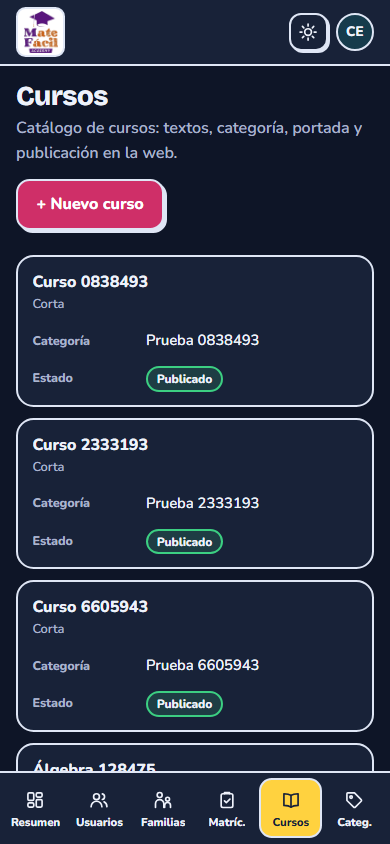
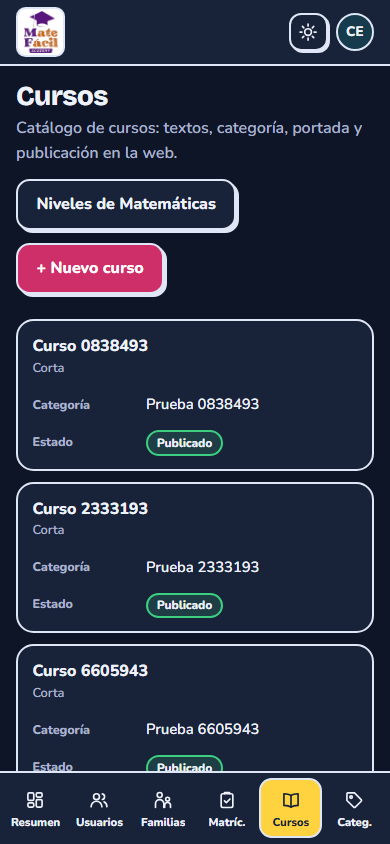
feat: pantalla de niveles de Matemáticas en el panel (SCRUM-39)
- /admin/cursos/niveles muestra los 8 niveles por etapa con su curso y
  sus sesiones, y crea los que faltan con un botón (se puede repetir).
- Enlace desde Cursos; responsive y modo oscuro.
- Modo mock con la misma regla; pruebas e2e en mock y contra la API real.
- Docs de pruebas actualizados con capturas y resultados.

diff --git a/src/app/(admin)/admin/cursos/niveles/page.tsx b/src/app/(admin)/admin/cursos/niveles/page.tsx
@@ -1,0 +1,78 @@
+import type { Metadata } from 'next';
+import Link from 'next/link';
+import { Suspense } from 'react';
+import { PageHeader, PageSkeleton } from '@/components/ui/primitives';
+import { provisionMathLevelsAction } from '@/features/admin/actions';
+import { ActionForm, SubmitButton } from '@/features/admin/components/action-form';
+import styles from '@/features/admin/components/admin.module.css';
+import { cn } from '@/lib/cn';
+import { requireSession } from '@/server/auth/dal';
+import { services } from '@/services';
+import type { MathLevel } from '@/types/admin';
+
+export const metadata: Metadata = { title: 'Niveles de Matemáticas' };
+
+// Niveles de Matemáticas (SCRUM-39): cuatro por etapa, cada uno es un curso con sus 14 sesiones.
+export default function MathLevelsPage() {
+  return (
+    <div className="page">
+      <Link className="link" href="/admin/cursos">← Cursos</Link>
+      <PageHeader
+        title="Niveles de Matemáticas"
+        description="Prebásico, Básico, Intermedio y Avanzado para primaria y secundaria. Cada nivel es un curso con sus 14 sesiones."
+      />
+      <Suspense fallback={<PageSkeleton />}>
+        <Levels />
+      </Suspense>
+    </div>
+  );
+}
+
+async function Levels() {
+  const ctx = await requireSession('admin');
+  const levels = await services.admin.listMathLevels(ctx);
+  const missing = levels.filter((level) => !level.courseId).length;
+
+  return (
+    <>
+      {missing > 0 && (
+        <section className="card section">
+          <p>
+            Faltan <b>{missing} de 8</b> niveles. Se crean como cursos en borrador, cada uno con 14 sesiones en borrador para que el
+            equipo académico cargue el contenido. Los niveles que ya existen no se tocan.
+          </p>
+          <ActionForm action={provisionMathLevelsAction}>
+            <SubmitButton className="btn--primary" pendingLabel="Creando…">Crear los niveles que faltan</SubmitButton>
+          </ActionForm>
+        </section>
+      )}
+      {(['primary', 'secondary'] as const).map((stage) => (
+        <section key={stage} className="section" aria-labelledby={`etapa-${stage}`}>
+          <h2 id={`etapa-${stage}`}>{stage === 'primary' ? 'Primaria' : 'Secundaria'}</h2>
+          <ul className={styles.levels} role="list">
+            {levels.filter((level) => level.stage === stage).map((level) => <LevelCard key={level.level} level={level} />)}
+          </ul>
+        </section>
+      ))}
+    </>
+  );
+}
+
+function LevelCard({ level }: { level: MathLevel }) {
+  if (!level.courseId) {
+    return (
+      <li className={cn(styles.level, styles.levelMissing)}>
+        <h3>{level.levelLabel}</h3>
+        <span>Sin crear · clases de {level.sessionMinutes} min</span>
+      </li>
+    );
+  }
+  return (
+    <li className={styles.level}>
+      <h3><Link href={`/admin/cursos/${level.courseId}`}>{level.levelLabel}</Link></h3>
+      <span className={styles.sub}>{level.courseTitle}</span>
+      <span>{level.lessons} sesiones · {level.publishedLessons} publicadas</span>
+      <span className={styles.sub}>Clases de {level.sessionMinutes} min · {level.coursePublished ? 'curso publicado' : 'curso en borrador'}</span>
+    </li>
+  );
+}

diff --git a/src/services/mock/admin.ts b/src/services/mock/admin.ts
@@ -15,6 +15,7 @@ import type {
   EnrollmentStatus,
   Instructor,
   IssuedCredentials,
+  MathLevel,
   OfferingSeats,
   SaveOfferingInput,
   SessionAttendance,
@@ -255,6 +256,29 @@ function sessionAttendance(sessionId: string): SessionAttendance | null {
     sessionId, offeringId: offering.id, courseTitle: course?.title ?? '', offeringName: offering.name,
     startsAt: session.startsAt, endsAt: session.endsAt, opensAt, canMark: Date.now() >= Date.parse(opensAt), students,
   };
+}
+
+// Niveles de Matemáticas (SCRUM-39): nivel → curso. Cada nivel creado trae sus 14 sesiones en borrador.
+const LEVEL_SESSIONS = 14;
+const LEVEL_DEFINITIONS = (['primary', 'secondary'] as const).flatMap((stage) =>
+  (['prebasic', 'basic', 'intermediate', 'advanced'] as const).map((level, index) => ({
+    stage, level,
+    stageLabel: stage === 'primary' ? 'Primaria' : 'Secundaria',
+    levelLabel: ['Prebásico', 'Básico', 'Intermedio', 'Avanzado'][index],
+    sessionMinutes: stage === 'primary' ? 60 : 90,
+  })));
+const globalForLevels = globalThis as unknown as { __mfMockLevels?: Map<string, string> };
+const levelStore = () => (globalForLevels.__mfMockLevels ??= new Map());
+
+function mathLevels(): MathLevel[] {
+  return LEVEL_DEFINITIONS.map((definition) => {
+    const courseId = levelStore().get(`${definition.stage}:${definition.level}`) ?? null;
+    const course = courseId ? store().courses.find((c) => c.id === courseId) : undefined;
+    return {
+      ...definition, courseId: course?.id ?? null, courseTitle: course?.title ?? null, coursePublished: course?.isPublished ?? false,
+      lessons: course ? LEVEL_SESSIONS : 0, publishedLessons: 0,
+    };
+  });
 }
 
 const enrollmentStore = () => (globalForEnrollments.__mfMockEnrollments ??= createEnrollmentStore());
@@ -619,6 +643,33 @@ export const mockAdmin: AdminService = {
     if (!session) throw new ApiError('validation', 'Sesión', 400, undefined, 'Session does not belong to this edition.');
     session.virtualLink = virtualLink;
     return o;
+  },
+
+  async listMathLevels(ctx) {
+    requireAdmin(ctx);
+    await delay();
+    return mathLevels();
+  },
+
+  async provisionMathLevels(ctx) {
+    requireAdmin(ctx);
+    await delay();
+    const links = levelStore();
+    let created = 0;
+    const category = store().categories.find((c) => c.name === 'Matemáticas') ?? store().categories[0];
+    for (const definition of LEVEL_DEFINITIONS) {
+      const key = `${definition.stage}:${definition.level}`;
+      if (links.has(key)) continue;
+      const course: AdminCourse = {
+        id: randomUUID(), title: `Matemáticas · ${definition.stageLabel} ${definition.levelLabel}`, categoryId: category?.id ?? null,
+        isPublished: false, shortDescription: null, fullDescription: null, objectives: null, syllabus: null, targetAudience: null,
+        prerequisites: null, coverUrl: null, coverOriginalFileName: null, sessionDurationMinutes: definition.sessionMinutes,
+      };
+      store().courses.push(course);
+      links.set(key, course.id);
+      created++;
+    }
+    return { created, levels: mathLevels() };
   },
 
   async getSessionAttendance(ctx, sessionId) {

diff --git a/src/services/contracts.ts b/src/services/contracts.ts
@@ -45,10 +45,12 @@ import type {
   EnrollmentFilters,
   Instructor,
   IssuedCredentials,
+  MathLevel,
   NewGuardianInput,
   NewStudentInput,
   OfferingSeats,
   Page,
+  ProvisionedLevels,
   SaveCourseInput,
   SaveOfferingInput,
   SessionAttendance,
@@ -193,6 +195,10 @@ export interface AdminService {
   publishOffering(ctx: RequestContext, courseId: string, offeringId: string): Promise<CourseOffering>;
   assignInstructors(ctx: RequestContext, courseId: string, offeringId: string, instructorIds: string[]): Promise<CourseOffering>;
   updateSessionLink(ctx: RequestContext, courseId: string, offeringId: string, sessionId: string, virtualLink: string | null): Promise<CourseOffering>;
+
+  // Niveles de Matemáticas (SCRUM-39): crear los que faltan se puede repetir sin duplicar nada.
+  listMathLevels(ctx: RequestContext): Promise<MathLevel[]>;
+  provisionMathLevels(ctx: RequestContext): Promise<ProvisionedLevels>;
 
   // Asistencia de una clase (SCRUM-53): la lista se guarda completa en una sola petición.
   getSessionAttendance(ctx: RequestContext, sessionId: string): Promise<SessionAttendance | null>;

diff --git a/src/features/admin/actions.ts b/src/features/admin/actions.ts
@@ -277,6 +277,19 @@ export async function updateSessionLinkAction(_prev: AdminActionState, form: For
   });
 }
 
+/** Sin campos: useActionState le pasa el estado y el formulario, que no necesita. */
+export async function provisionMathLevelsAction(): Promise<AdminActionState> {
+  return adminMutation(async (ctx) => {
+    const result = await services.admin.provisionMathLevels(ctx);
+    refresh();
+    return {
+      message: result.created === 0
+        ? 'Los 8 niveles ya existían: no se cambió nada.'
+        : `Se crearon ${result.created} ${result.created === 1 ? 'nivel' : 'niveles'} con sus 14 sesiones en borrador.`,
+    };
+  });
+}
+
 export async function markAttendanceAction(_prev: AdminActionState, form: FormData): Promise<AdminActionState> {
   return adminMutation(async (ctx) => {
     const session = ids(form, 'sessionId');

diff --git a/src/types/admin.ts b/src/types/admin.ts
@@ -254,3 +254,24 @@ export interface AttendanceMark {
   status: AttendanceMarkStatus;
   note: string | null;
 }
+
+// ─── Niveles de Matemáticas (SCRUM-39) ───────────────────────────────
+
+/** Un nivel y su curso (null hasta crearlo), con cuántas de sus sesiones existen y están publicadas. */
+export interface MathLevel {
+  stage: 'primary' | 'secondary';
+  level: 'prebasic' | 'basic' | 'intermediate' | 'advanced';
+  stageLabel: string;
+  levelLabel: string;
+  sessionMinutes: number;
+  courseId: string | null;
+  courseTitle: string | null;
+  coursePublished: boolean;
+  lessons: number;
+  publishedLessons: number;
+}
+
+export interface ProvisionedLevels {
+  created: number;
+  levels: MathLevel[];
+}

diff --git a/src/features/admin/components/admin.module.css b/src/features/admin/components/admin.module.css
@@ -106,3 +106,9 @@ textarea.textarea { min-height: 6rem; resize: vertical; font: inherit; }
 .formerList { color: var(--tx2); font-size: .88rem; }
 .formerList ul { margin: .3rem 0 0; padding-left: 1.1rem; }
 @media (max-width: 860px) { .rosterItem { grid-template-columns: 1fr; } }
+
+/* Niveles de Matemáticas (SCRUM-39): cuatro tarjetas por etapa; en celular, una columna. */
+.levels { list-style: none; margin: 0; padding: 0; display: grid; grid-template-columns: repeat(auto-fit, minmax(13rem, 1fr)); gap: .8rem; }
+.level { display: grid; gap: .35rem; align-content: start; padding: .9rem 1rem; border: var(--borde-fino); border-radius: .9rem; background: var(--sup); }
+.level h3 { margin: 0; font-size: 1.05rem; }
+.levelMissing { border-style: dashed; color: var(--tx2); }

diff --git a/src/services/http/admin.ts b/src/services/http/admin.ts
@@ -67,6 +67,9 @@ export const httpAdmin: AdminService = {
       method: 'PATCH', token, body: { virtualLink },
     }),
 
+  listMathLevels: ({ token }) => apiRequest('/math-levels', { token }),
+  provisionMathLevels: ({ token }) => apiRequest('/math-levels/provision', { method: 'POST', token }),
+
   getSessionAttendance: ({ token }, sessionId) =>
     nullOn404(apiRequest(`/attendance/sessions/${enc(sessionId)}`, { token })),
   markAttendance: ({ token }, sessionId, records) =>

diff --git a/src/app/(admin)/admin/cursos/page.tsx b/src/app/(admin)/admin/cursos/page.tsx
@@ -13,6 +13,7 @@ export default function CoursesPage() {
   return (
     <div className="page">
       <PageHeader title="Cursos" description="Catálogo de cursos: textos, categoría, portada y publicación en la web.">
+        <Link className="btn" href="/admin/cursos/niveles">Niveles de Matemáticas</Link>
         <Link className="btn btn--primary" href="/admin/cursos/nuevo">+ Nuevo curso</Link>
       </PageHeader>
       <Suspense fallback={<PageSkeleton />}>

diff --git a/docs/pruebas/README.md b/docs/pruebas/README.md
@@ -1,16 +1,16 @@
 # Pruebas del aula
 
-Resultados del 9 de noviembre de 2026 sobre el commit `e5784d3` de la rama `feat/scrum-53-55-asistencia-lecciones`. Las capturas y animaciones salen de un navegador real (Microsoft Edge) con el aula conectada a la API .NET y PostgreSQL en Docker. Las personas y los correos son ficticios, y los datos de acceso aparecen difuminados.
+Resultados del 9 de noviembre de 2026 sobre el último commit de la rama `feat/scrum-39-58-niveles-archivos`. Las capturas y animaciones salen de un navegador real (Microsoft Edge) con el aula conectada a la API .NET y PostgreSQL en Docker. Las personas y los correos son ficticios, y los datos de acceso aparecen difuminados.
 
 | Prueba | Dónde corre | Resultado |
 |---|---|---|
 | Unitarias (Vitest) | En memoria | **71 de 71**, en 15 archivos |
 | Tipos (`tsc`) y lint (ESLint) | Código | Sin errores |
-| Recorrido en navegador real | Aula conectada a la API en Docker | **31 de 31** |
+| Recorrido en navegador real | Aula conectada a la API en Docker | **33 de 33** |
 | Panel de la familia con login real | Aula conectada a la API en Docker | **7 de 7** |
 | Sesión y renovación | Aula conectada a la API en Docker | **12 de 12** |
-| Contraste y desborde | Modo mock | 224 combinaciones: 0 problemas |
-| Flujos en celular y modo oscuro | Modo mock | **22 de 22** |
+| Contraste y desborde | Modo mock | 232 combinaciones: 0 problemas |
+| Flujos en celular y modo oscuro | Modo mock | **25 de 25** |
 
 Las dos pruebas en modo mock pasaron en Edge y en Chromium, el navegador del CI.
 
@@ -28,7 +28,7 @@ La lista completa está en [pruebas-unitarias.md](pruebas-unitarias.md). Las pru
 
 **La sesión de administrador se firmó localmente.** Se usó la clave de desarrollo de Docker, sin pasar por el formulario de ingreso. Los logins de familia y alumno sí fueron reales, por el formulario.
 
-**Las lecciones (SCRUM-55) todavía no tienen pantalla.** Su API está lista y probada (ver las pruebas del backend); la pantalla del alumno es SCRUM-56 y la carga desde el panel es SCRUM-71.
+**Las lecciones (SCRUM-55) y sus archivos (SCRUM-58) todavía no tienen pantalla.** Su API está lista y probada (ver las pruebas del backend); la pantalla del alumno es SCRUM-56 y la carga desde el panel es SCRUM-71.
 
 **El contraste se midió solo en modo mock.** El recorrido real comprobó el desborde horizontal en celular y tablet, pero no volvió a medir el contraste.
 
@@ -90,6 +90,12 @@ Asistencia de una clase (SCRUM-53): se marca toda la lista y se guarda en un sol
 
 <img src="capturas/admin-09-asistencia-celular-oscuro.png" alt="Asistencia en celular, modo oscuro" width="280">
 
+Niveles de Matemáticas (SCRUM-39): los 8 niveles con sus 14 sesiones, y el botón para crear los que falten.
+
+![Niveles de Matemáticas](capturas/admin-10-niveles-escritorio.png)
+
+<img src="capturas/admin-11-niveles-celular-oscuro.png" alt="Niveles en celular, modo oscuro" width="280">
+
 Celular en modo oscuro:
 
 <img src="capturas/admin-07-resumen-celular-oscuro.png" alt="Resumen en celular" width="240"> <img src="capturas/admin-07-usuarios-celular-oscuro.png" alt="Usuarios en celular" width="240"> <img src="capturas/admin-07-cursos-celular-oscuro.png" alt="Cursos en celular" width="240"> <img src="capturas/admin-07-matriculas-celular-oscuro.png" alt="Matrículas en celular" width="240">
@@ -113,6 +119,7 @@ Inicio y clases en celular con modo oscuro. La clase real muestra «Entrar» cua
 - Activar matrícula actualiza la fila
 - Retirar matrícula libera el cupo
 - Asistencia: se guarda la lista y el resumen la cuenta
+- Niveles: los 8 existen, cada uno con sus sesiones
 
 ### Administración en celular
 
@@ -121,6 +128,7 @@ Inicio y clases en celular con modo oscuro. La clase real muestra «Entrar» cua
 - /admin/cursos sin desborde horizontal
 - /admin/matriculas sin desborde horizontal
 - Ficha del curso sin desborde horizontal
+- Niveles sin desborde horizontal
 - Asistencia sin desborde horizontal
 
 ### Familia
@@ -184,6 +192,9 @@ Inicio y clases en celular con modo oscuro. La clase real muestra «Entrar» cua
 - asistencia: el equipo marca la clase pasada
 - asistencia: el resumen cuenta la marca
 - sin desborde en la asistencia
+- niveles: se crean los 8 con sus 14 sesiones
+- niveles: ya no se ofrece crearlos otra vez
+- sin desborde en niveles
 - «Confirmar pago y activar» dentro de la pantalla, sin deslizar
 - activar matrícula actualiza la lista
 - retirar matrícula con confirmación
